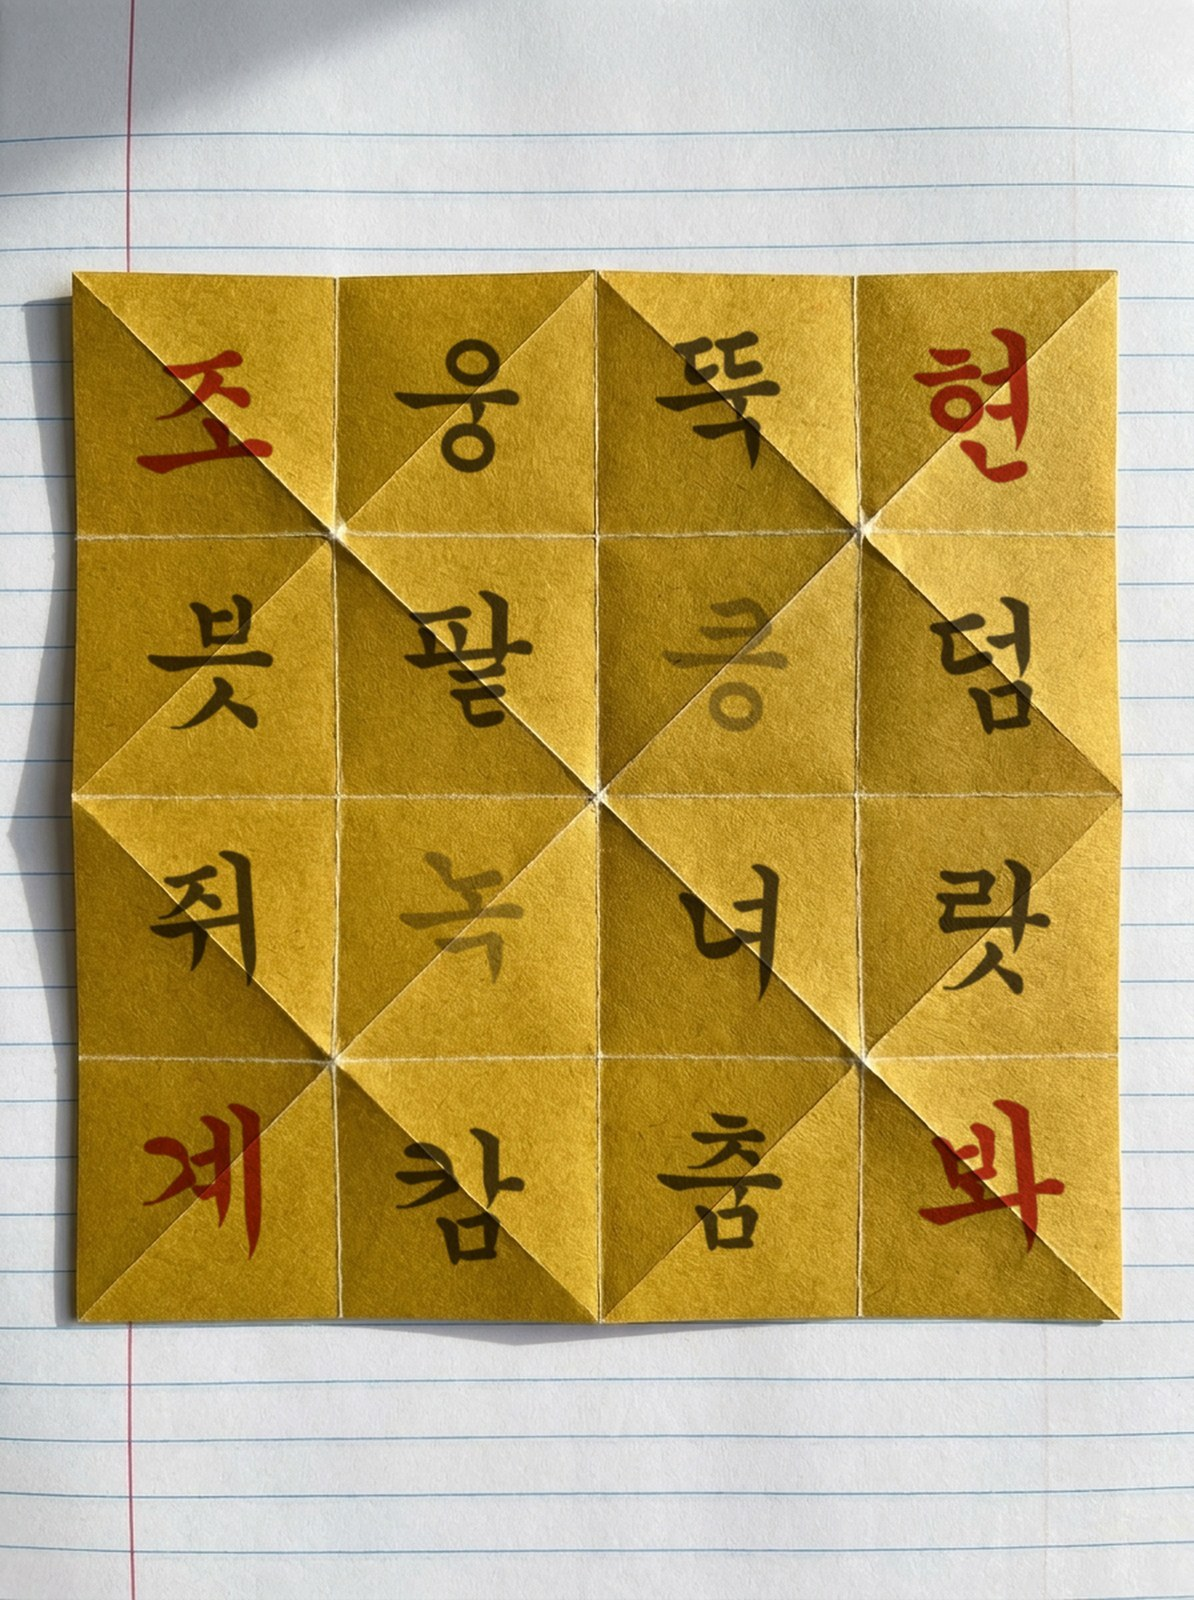
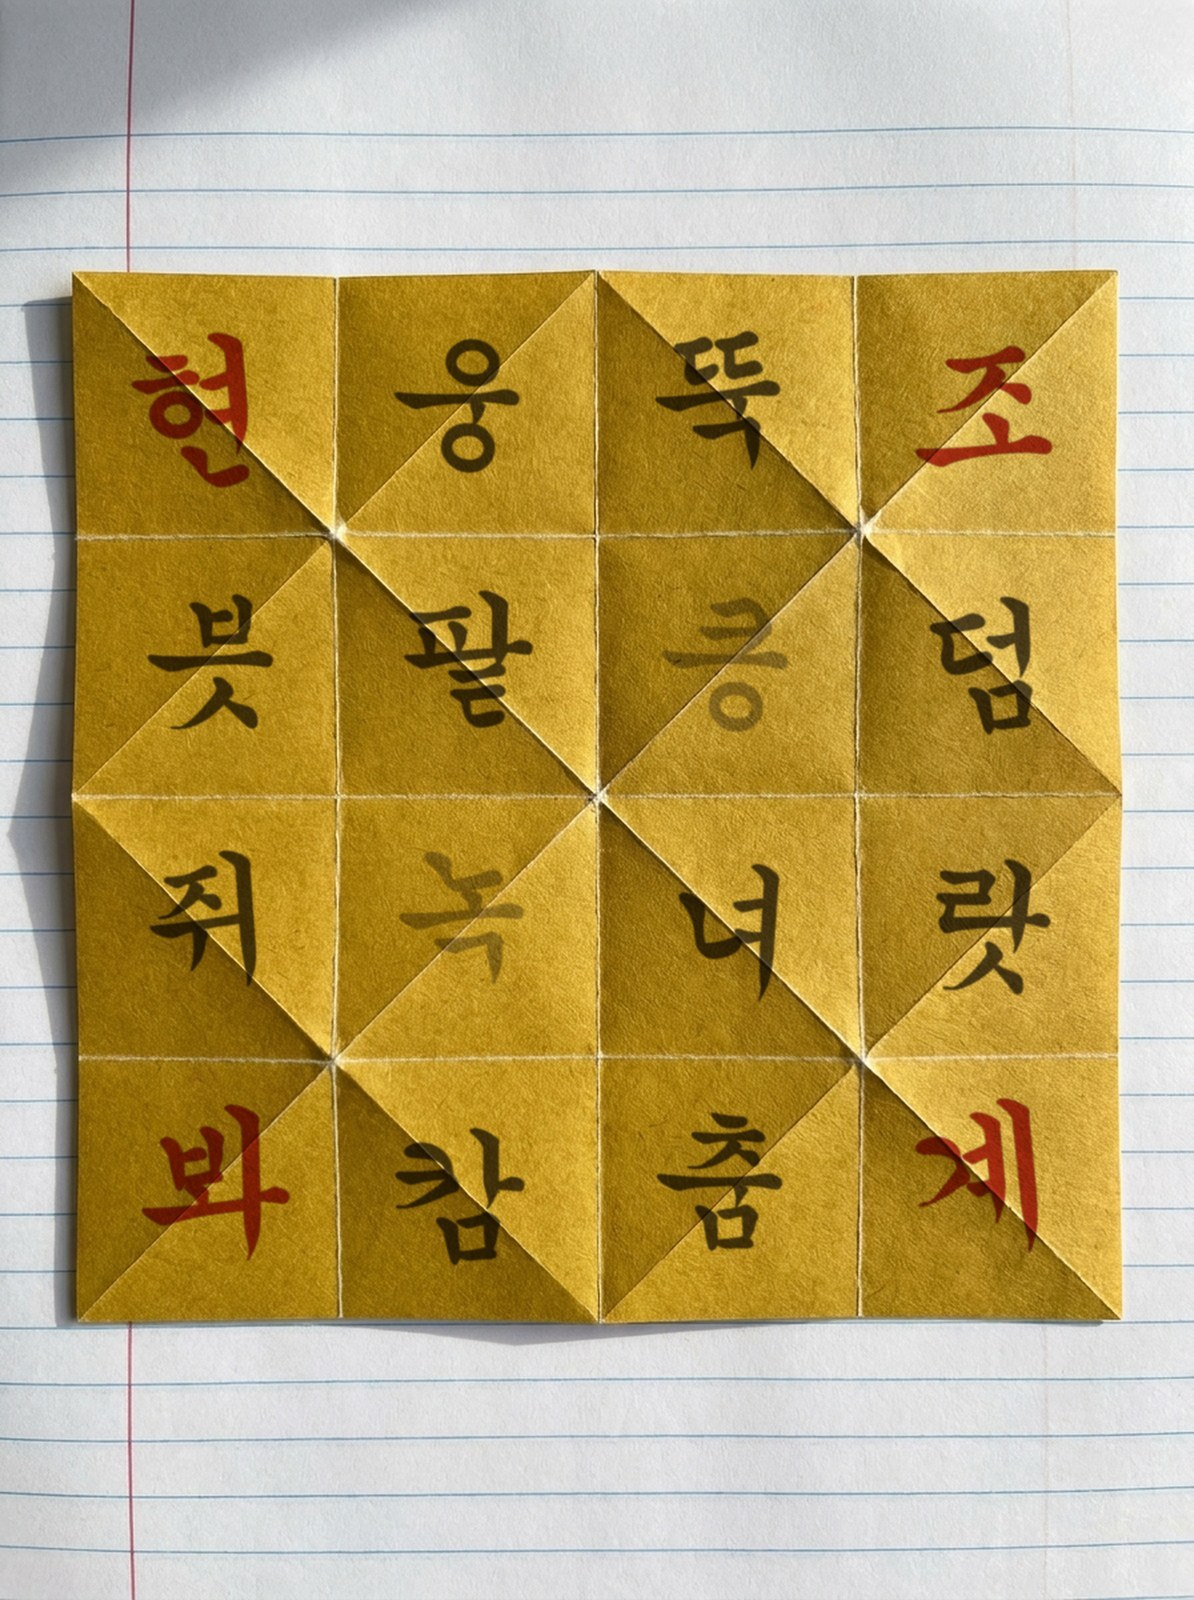
종이 두 장 구조로 바로잡음 (좌우 반전 되돌림)
앞서 한 장의 앞뒤라고 보고 노란 면을 좌우 반전했는데, 검증해 보니 틀렸다.

펼친 노란 면의 모서리 글자를 접은 사진과 대조하면
  펼침 좌상 て → 접힘 좌하
  펼침 우상 現 → 접힘 좌상
  펼침 좌하 界 → 접힘 우하
  펼침 우하 し → 접힘 우상
네 글자가 시계방향 순서를 유지한 채 한 칸 밀렸다. 90도 회전이지 거울
반전이 아니다. 뒤집힌 면이라면 시계방향 순서가 역전돼야 한다.
접은 사진의 실루엣이 팔각형이 아니라 각진 정사각형인 것도 같은 결론이다.

즉 흰 종이의 네 모서리를 뒤로 접어 팔각형을 만들고 평평한 노란 종이 위에
얹는 구조다. 노란 면은 뒤집히지 않으므로 원래 배치가 맞다.

3D 툴도 두 장으로 나눠 1-front(흰), 2-front(노랑) 으로 넣었다.
툴은 한 장의 앞뒤 모델이라 겹치기는 재현하지 못한다.

diff --git a/README.md b/README.md
@@ -30,9 +30,18 @@
 `yokuaru2` 의 종이접기 퍼즐에 **직접 접어보기**(`/fold/`) 링크를 붙였다.
 원본에는 없다. 사진 3장만으로 퍼즐은 그대로 완결되고, 이건 선택지다.
 
-종이접기 3D 툴(anjaeheung/paper-fold)을 복사해 `assets/1-front.jpg`(흰 면),
-`1-back.jpg`(노란 면)을 심어 두었다. 툴이 뒷면 텍스처에 좌우 미러를 적용하므로
-뒷면 이미지는 뒤집어 찍은 그대로 넣으면 된다.
+종이접기 3D 툴(anjaeheung/paper-fold)을 복사해 `assets/1-front.jpg`(흰 종이),
+`2-front.jpg`(노란 종이)를 심어 두었다.
+
+이 퍼즐은 **종이 두 장**이다. 흰 종이의 네 모서리를 뒤로 접어 팔각형을 만들고,
+평평한 노란 종이 위에 얹는 구조다. 한 장의 앞뒤가 아니다.
+
+근거: 펼친 노란 면의 모서리 글자와 접은 사진을 대조하면 네 글자가 시계방향
+순서를 유지한 채 한 칸 밀린다. 회전이지 거울 반전이 아니다. 뒤집혔다면
+순서가 역전된다. 접은 사진의 실루엣이 각진 정사각형인 것도 같은 결론을 가리킨다.
+
+툴은 한 장의 앞뒤 모델이라 두 장 겹치기는 재현하지 못한다. 접는 동작이
+일어나는 건 흰 종이뿐이므로 그것만 접어 보고, 노란 종이는 따로 넘겨 본다.
 
 원작자에게는 이 추가를 알려 두는 것이 좋다. 번역 허락의 범위를 넘는 변경이다.
 
